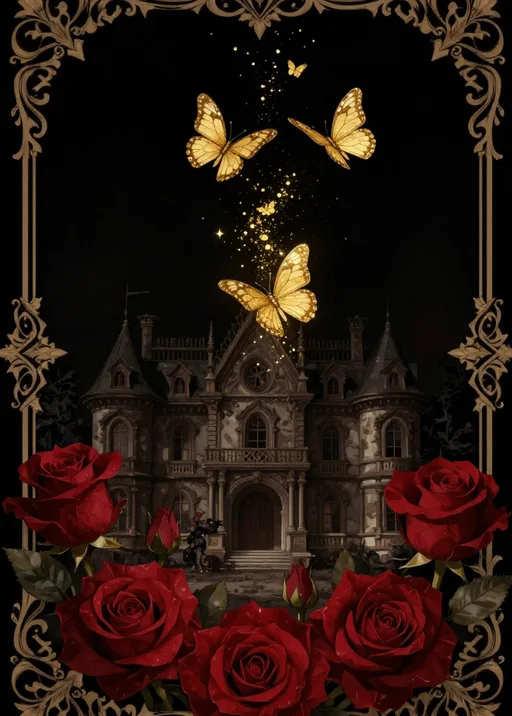
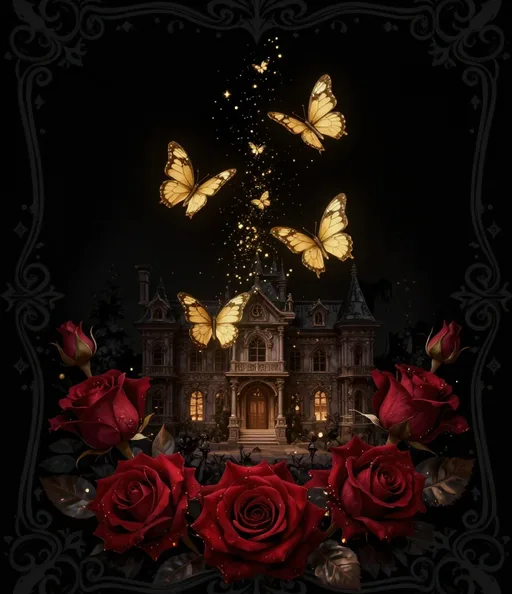
fix: スリーブの絵を上の帯の下の比 (512x594) で取り込む。絵ごとに残す位置を決め、枠のある絵はその比で描き直す

diff --git a/scripts/sleeve_import.py b/scripts/sleeve_import.py
@@ -1,7 +1,8 @@
 """スリーブの絵を取り込む。
-   python scripts/sleeve_import.py <名前> <書き出しの URL か、手元の画像のパス>
-   まわりの白い余白 (版画の紙の縁など) を切り落とし、カードの裏面 (512x716) の比に中央で切って、
-   art/sleeves/<名前>.webp に保存する"""
+   python scripts/sleeve_import.py <名前> <書き出しの URL か、手元の画像のパス> [残す位置 0〜1]
+   まわりの白い余白 (版画の紙の縁など) を切り落とし、カードの裏面の「上の帯 (FACE DOWN と値) より下」
+   (512x594) の比に切って、art/sleeves/<名前>.webp に保存する。
+   残す位置: 縦にはみ出す分をどこで切るか。0 = 上を残す、0.5 = 中央 (既定)、1 = 下を残す"""
 import io
 import sys
 import urllib.request
@@ -9,6 +10,8 @@ from pathlib import Path
 from PIL import Image, ImageStat
 
 name, src = sys.argv[1], sys.argv[2]
+anchor = float(sys.argv[3]) if len(sys.argv) > 3 else 0.5
+OUT_W, OUT_H = 512, 594          # cardtex.js の DW x (DH - HEAD_H)
 if Path(src).is_file():
     im = Image.open(src).convert('RGB')
 else:
@@ -40,16 +43,16 @@ im = trim_margin(im)
 w, h = im.size
 im = im.crop((int(w * 0.05), int(h * 0.04), int(w * 0.95), int(h * 0.96)))
 w, h = im.size
-target = 512 / 716
+target = OUT_W / OUT_H
 if w / h > target:
     nw = int(h * target)
     x = (w - nw) // 2
     im = im.crop((x, 0, x + nw, h))
 else:
     nh = int(w / target)
-    y = (h - nh) // 2
+    y = int((h - nh) * anchor)
     im = im.crop((0, y, w, y + nh))
-im = im.resize((512, 716), Image.LANCZOS)
+im = im.resize((OUT_W, OUT_H), Image.LANCZOS)
 out = Path(__file__).resolve().parent.parent / 'art' / 'sleeves' / (name + '.webp')
 out.parent.mkdir(parents=True, exist_ok=True)
 im.save(out, 'WEBP', quality=82)
